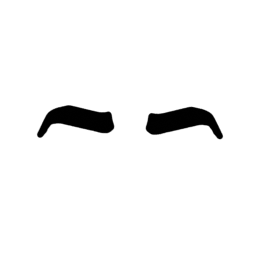
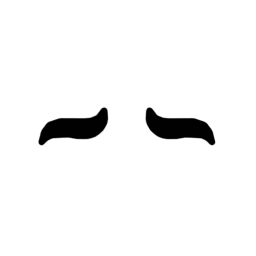
updated eyebrows

Changed region(s): [[0.125, 0.4062, 0.4688, 0.5938], [0.5625, 0.4062, 0.875, 0.5938]]

diff --git a/src/Components/Core/Domain/AvatarModels/AvatarFaceUVTexture.ts b/src/Components/Core/Domain/AvatarModels/AvatarFaceUVTexture.ts
@@ -7,17 +7,17 @@ interface AvatarUVOffset {
 
 export const AvatarEyeBrowTexture: AvatarUVOffset[] = [
   { id: 0, name: "Brows_1", uOffset: 0, vOffset: 0 },
-  { id: 1, name: "Brows_2", uOffset: 0.09, vOffset: 0 },
-  { id: 2, name: "Brows_3", uOffset: 0.18, vOffset: 0 },
-  { id: 3, name: "Brows_4", uOffset: 0.27, vOffset: 0 },
-  { id: 4, name: "Brows_5", uOffset: 0.357, vOffset: 0 },
-  { id: 5, name: "Brows_6", uOffset: 0.447, vOffset: 0 },
-  { id: 6, name: "Brows_7", uOffset: 0, vOffset: 0.05 },
-  { id: 7, name: "Brows_8", uOffset: 0.09, vOffset: 0.05 },
-  { id: 8, name: "Brows_9", uOffset: 0.18, vOffset: 0.05 },
-  { id: 9, name: "Brows_10", uOffset: 0.27, vOffset: 0.05 },
-  { id: 10, name: "Brows_11", uOffset: 0.36, vOffset: 0.05 },
-  { id: 11, name: "Brows_12", uOffset: 0.45, vOffset: 0.05 },
+  { id: 1, name: "Brows_2", uOffset: 0.2497, vOffset: 0 },
+  { id: 2, name: "Brows_3", uOffset: 0.4994, vOffset: 0 },
+  { id: 3, name: "Brows_4", uOffset: 0.7491, vOffset: 0 },
+  { id: 4, name: "Brows_5", uOffset: 0, vOffset: 0.249 },
+  { id: 5, name: "Brows_6", uOffset: 0.2497, vOffset: 0.249 },
+  { id: 6, name: "Brows_7", uOffset: 0.4994, vOffset: 0.249 },
+  { id: 7, name: "Brows_8", uOffset: 0.7491, vOffset: 0.249 },
+  { id: 8, name: "Brows_9", uOffset: 0, vOffset: 0.498 },
+  { id: 9, name: "Brows_10", uOffset: 0.2497, vOffset: 0.498 },
+  { id: 10, name: "Brows_11", uOffset: 0.4994, vOffset: 0.498 },
+  { id: 11, name: "Brows_12", uOffset: 0.7491, vOffset: 0.498 },
 ];
 
 export const AvatarEyeTexture: AvatarUVOffset[] = [
